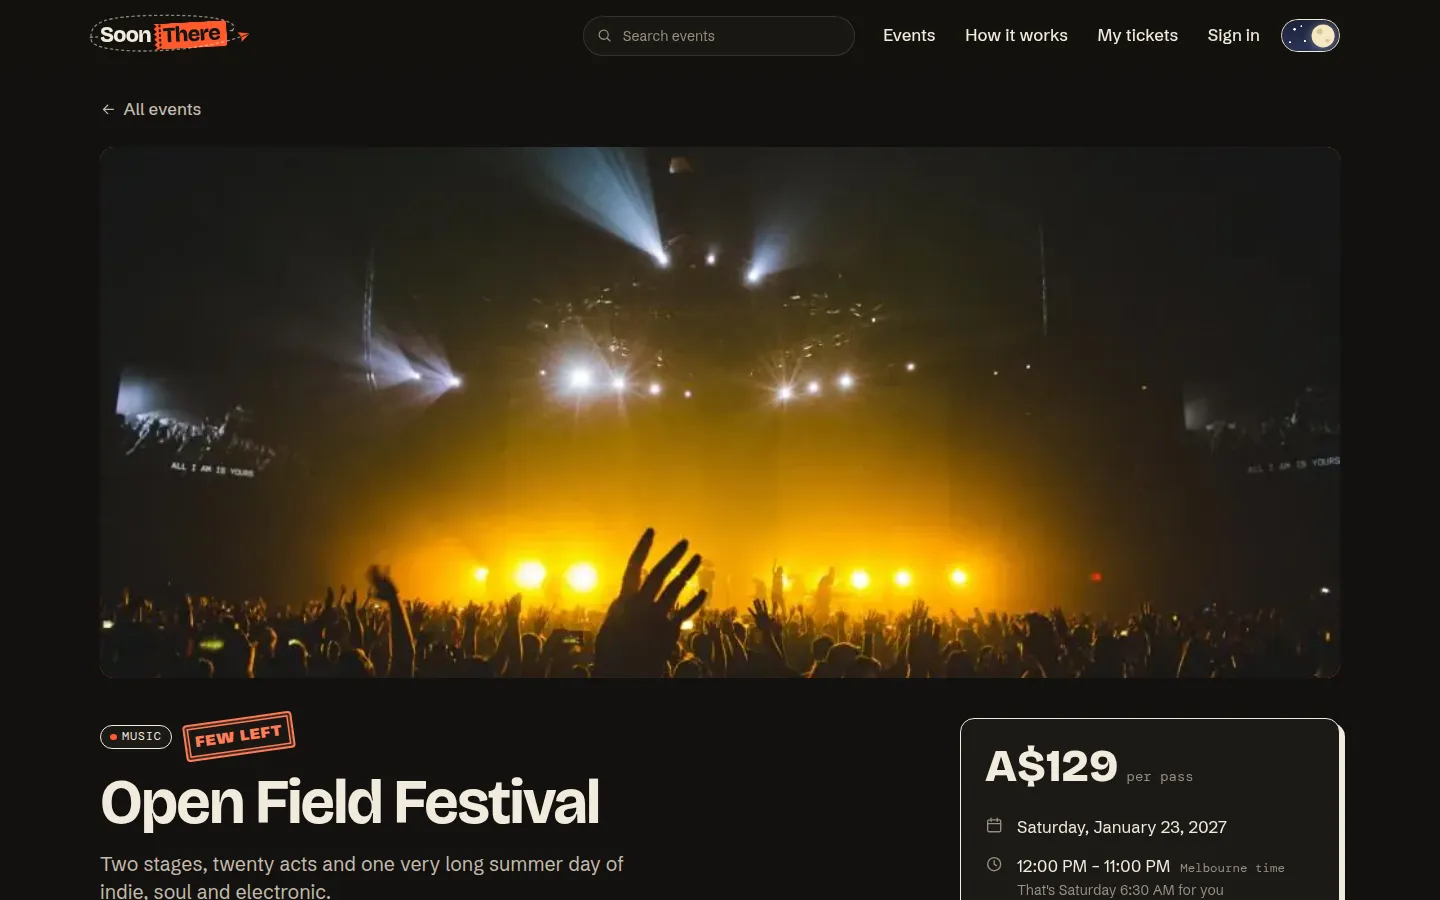
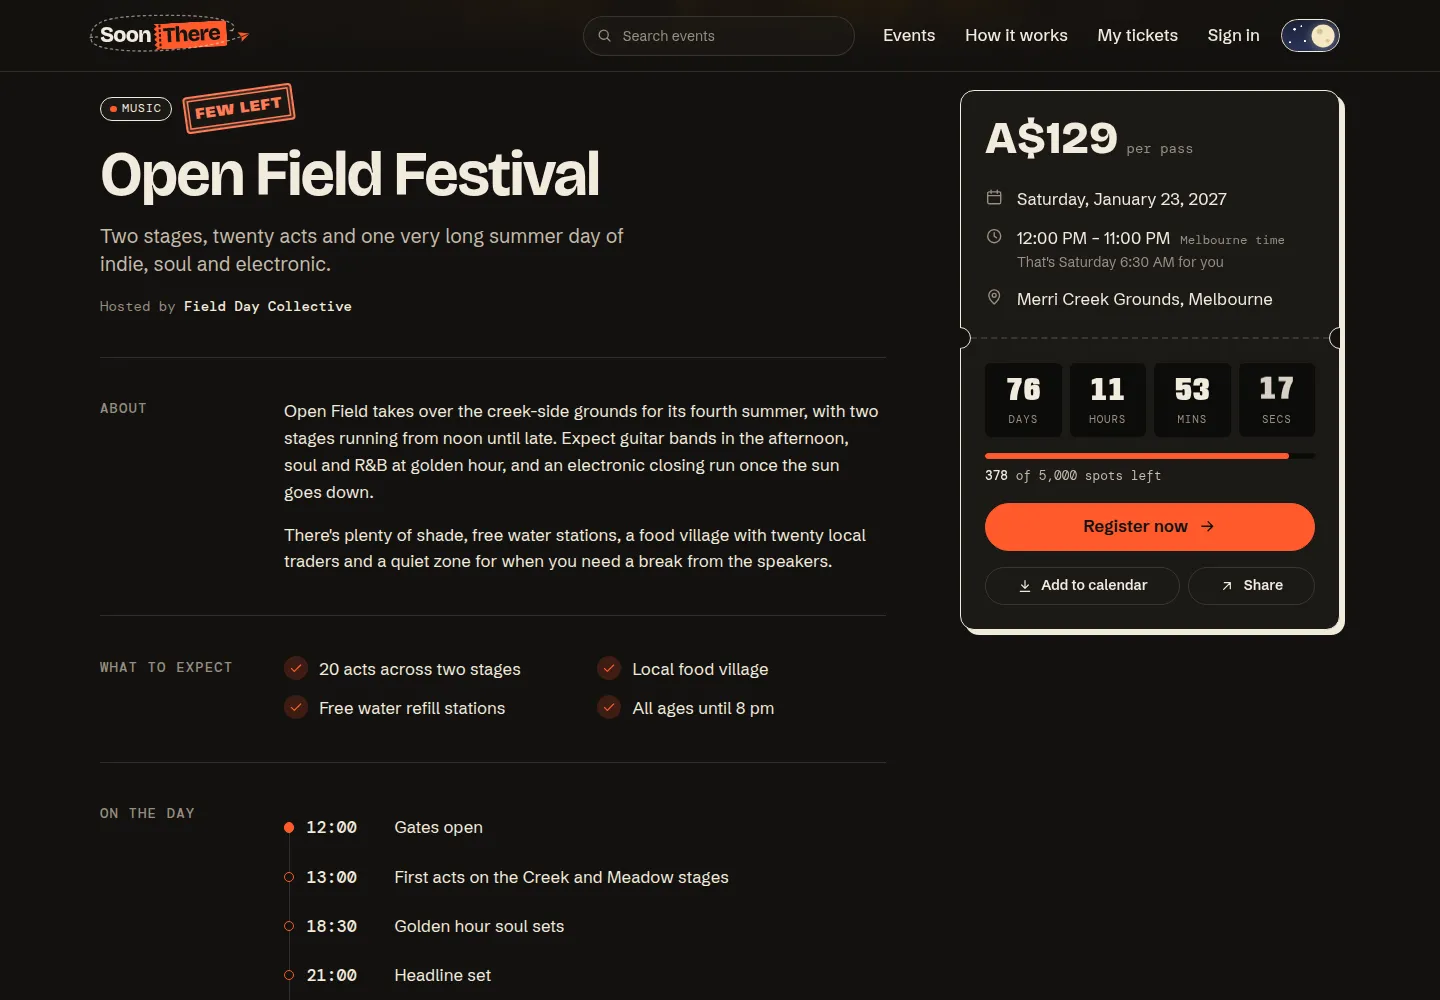
readme: event details screenshot, tech stack and contents

diff --git a/README.md b/README.md
@@ -10,10 +10,12 @@ SoonThere lists gigs, talks, tastings, workshops and late nights in cities aroun
 
 It is built with HTML5, CSS3 and plain JavaScript, with no framework and no build step, and works on phones, tablets and desktops.
 
+**Contents:** [Features](#features) | [Try it](#try-it) | [Tech stack](#tech-stack) | [How it's built](#how-its-built) | [Running locally](#running-locally) | [Deployment](#deployment) | [Project brief](#project-brief) | [Credits](#credits)
+
 ## Features
 
 ### Hero dial
-Upcoming events sit on the rim of a wheel that turns on its own. Drag it, swipe it, or use the arrow buttons and keys. The selected event is shown in full with a live countdown, and its photo fills the stage.
+The hero section introduces SoonThere with a headline and links to browse events or see your tickets. Beside it, upcoming events sit on the rim of a wheel that turns on its own. Drag it, swipe it, or use the arrow buttons and keys. The selected event is shown in full with a live countdown, and its photo fills the stage.
 
 ![The hero dial being dragged and turned, then switched to light mode](docs/clips/dial.webp)
 
@@ -111,6 +113,17 @@ The sign-in page has a button for each demo account that signs you straight in.
 | Admin | `admin@soonthere.app` | `soonthere-admin` | The admin area. Try checking in booking `ST-K7M2QX`, then scanning it again |
 
 Accounts, registrations and event changes are kept in the browser's Local Storage, so the whole site runs without a server and every visitor starts with the same demo data. Passwords are salted and hashed with SHA-256 before they are stored.
+
+## Tech stack
+
+| | |
+| --- | --- |
+| Markup | HTML5, with semantic landmarks and a native `<dialog>` for passes |
+| Styling | CSS3: custom properties for the light and dark themes, grid, flexbox and view transitions |
+| Scripting | Plain JavaScript (ES modules), with no framework or libraries |
+| Data | A built-in event list, with registrations, accounts and edits kept in Local Storage |
+| Fonts | Google Fonts |
+| Hosting | Vercel, deployed from GitHub |
 
 ## How it's built
 
